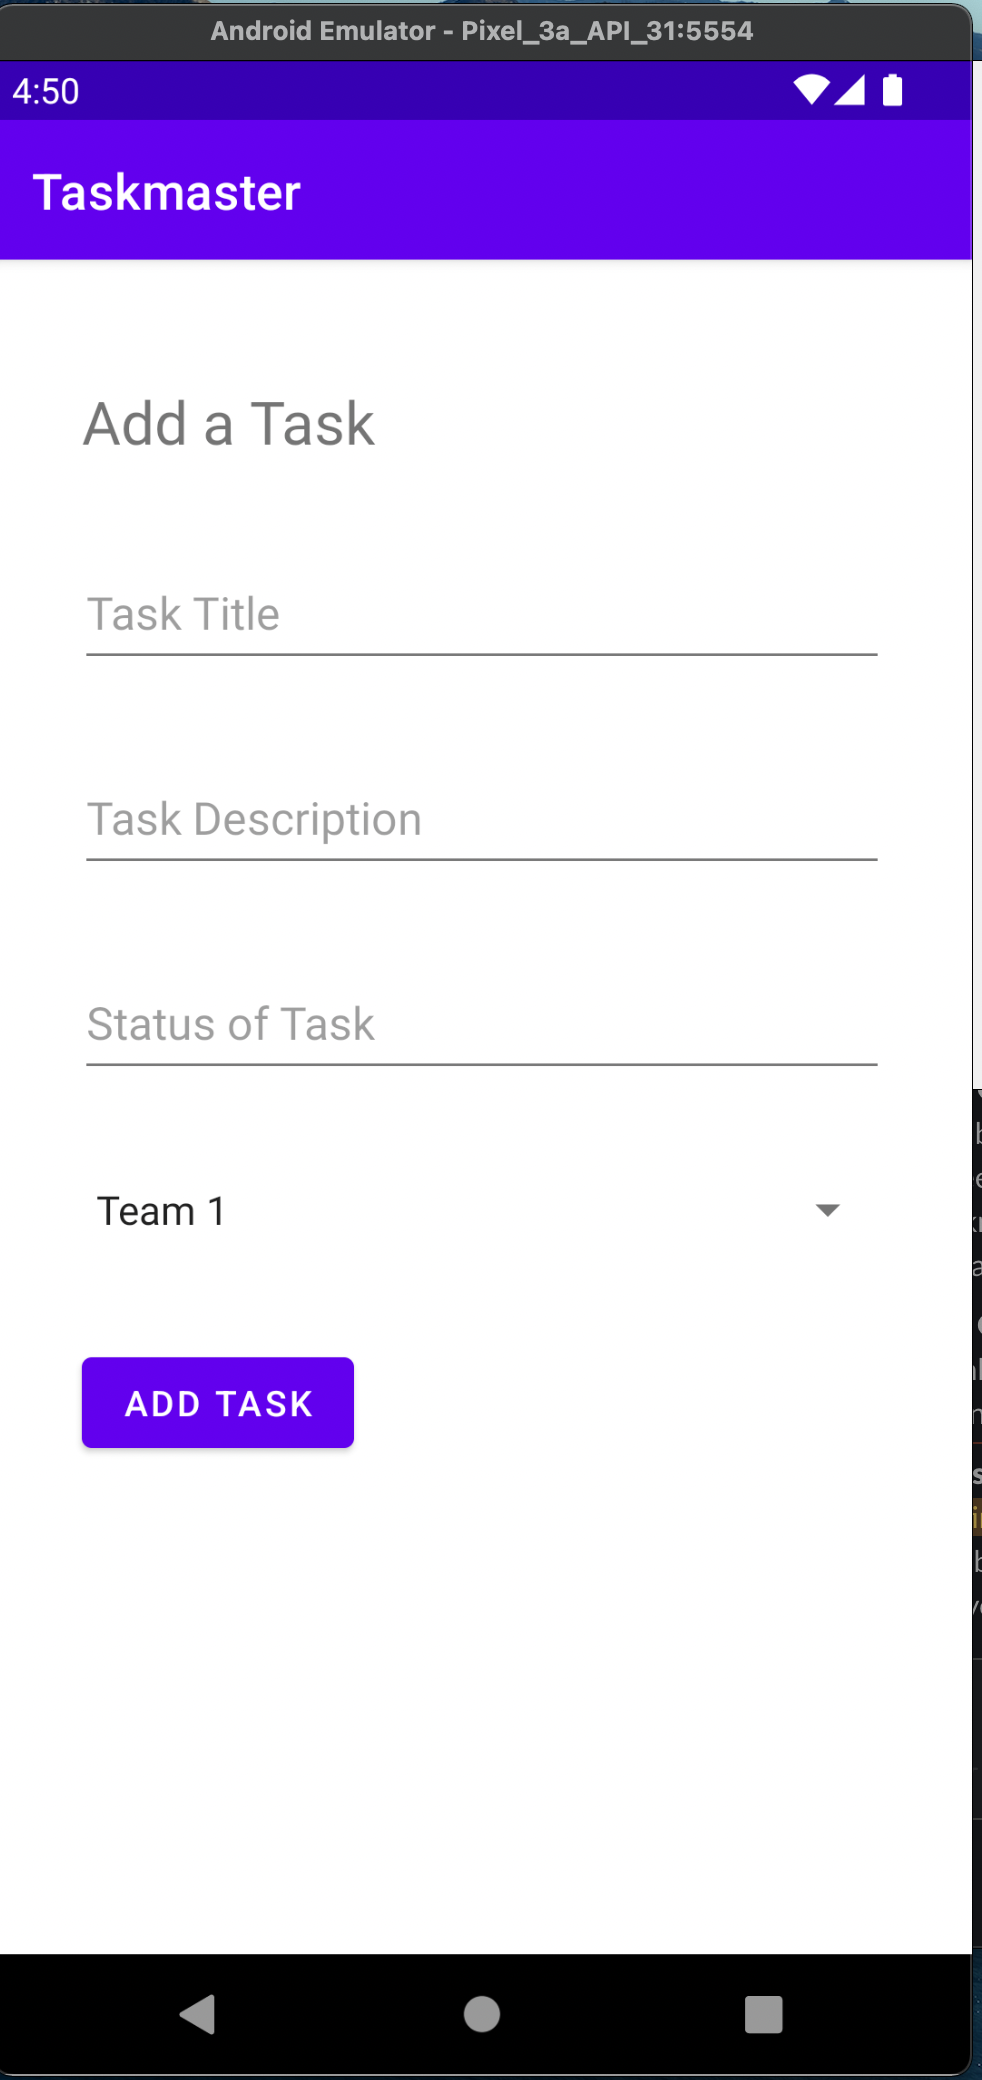
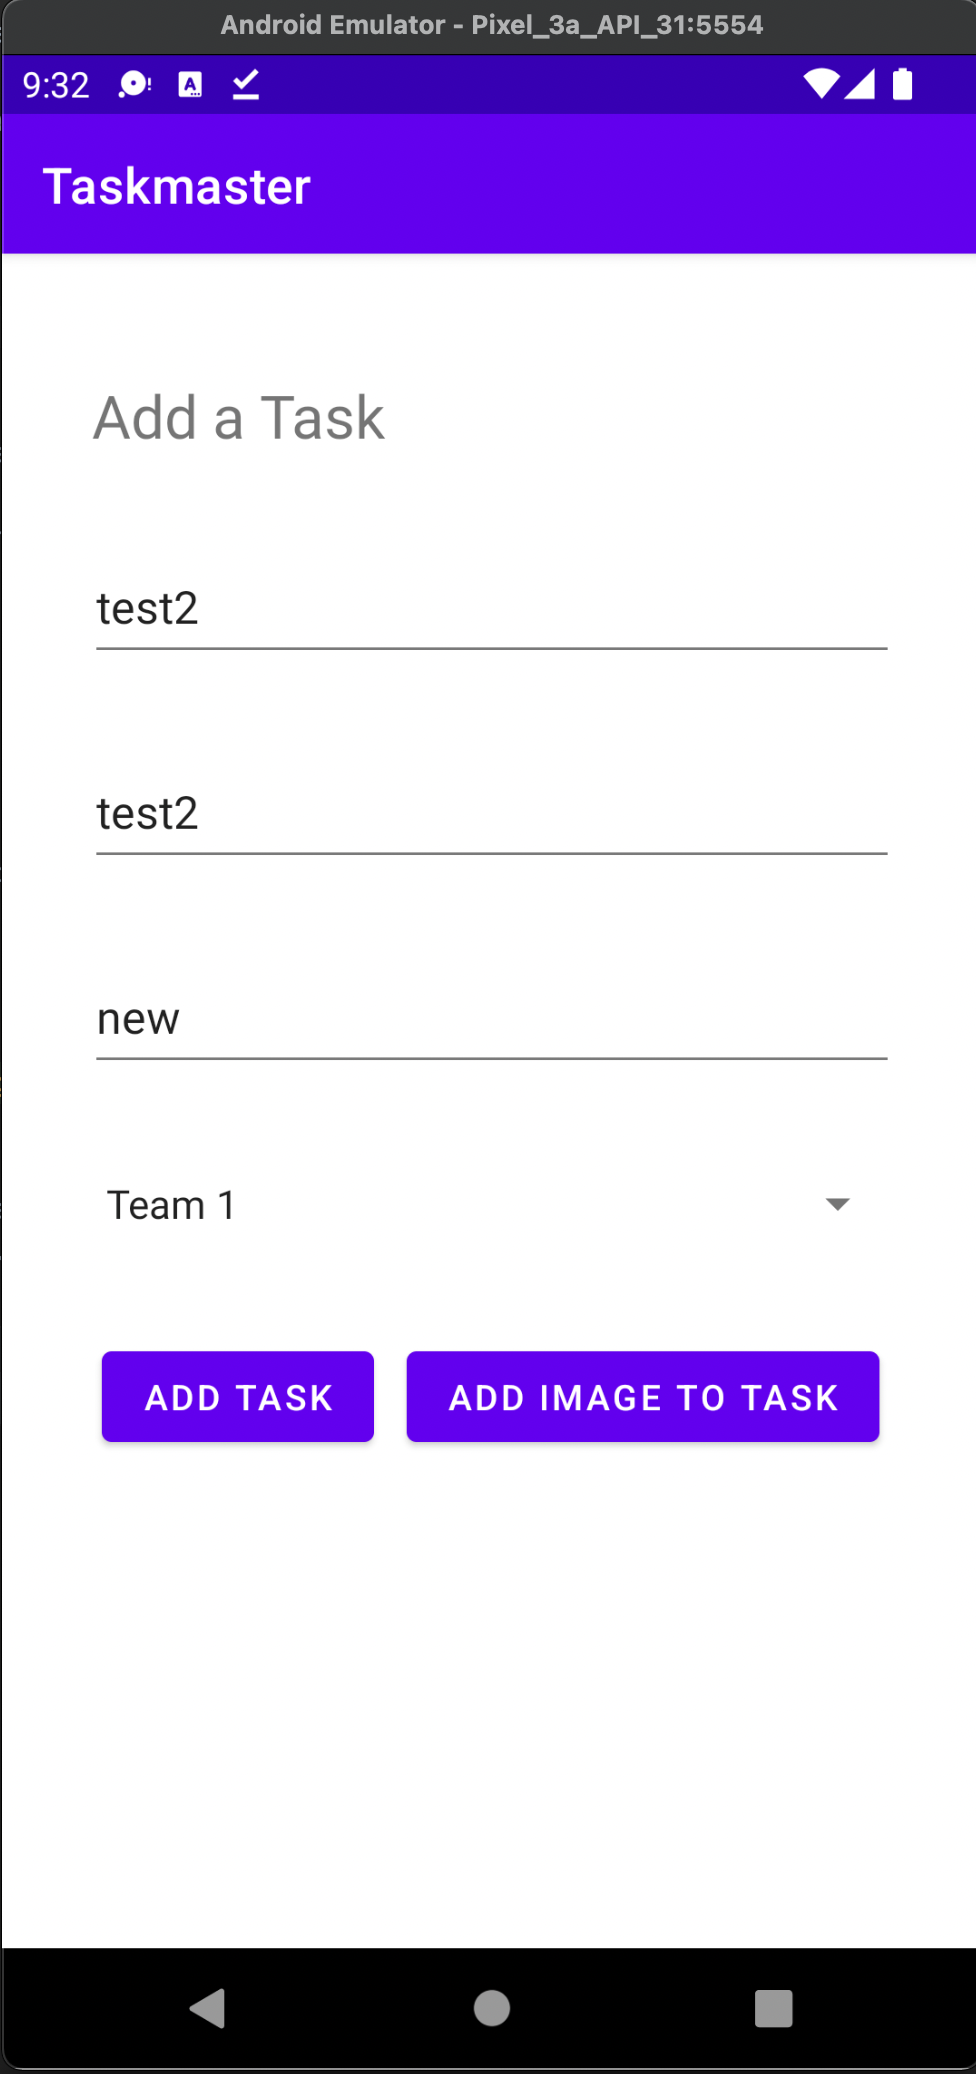
further updates documentation, fixes small bug when adding/rendering new image of task

diff --git a/app/src/main/java/com/hkimbrough22/taskmaster/activities/AddTaskActivity.java b/app/src/main/java/com/hkimbrough22/taskmaster/activities/AddTaskActivity.java
@@ -155,13 +155,14 @@ public class AddTaskActivity extends AppCompatActivity {
         Button addImageButton = findViewById(R.id.addTaskAddImageButton);
         addImageButton.setOnClickListener(view -> {
             selectImageAndSaveToS3();
+
         });
     }
 
     protected void selectImageAndSaveToS3(){
         Intent imagePickingIntent = new Intent(Intent.ACTION_GET_CONTENT);
         imagePickingIntent.setType("*/*");
-        imagePickingIntent.putExtra(Intent.EXTRA_MIME_TYPES, new String[]{"image/jpeg", "image/png"});
+        imagePickingIntent.putExtra(Intent.EXTRA_MIME_TYPES, new String[]{"image/jpeg", "image/png", "image/jpg"});
 //        startActivity(imagePickingIntent);
 //        ActivityResultLauncher<Intent> activityResultLauncher = getImagePickingActivityResultLauncher();
         activityResultLauncher.launch(imagePickingIntent);

diff --git a/README.md b/README.md
@@ -46,7 +46,11 @@ Application is an android application programmed using the Java language. Tested
 ![add task screenshot](./screenshots/addTask.png)
 
 
+![add image](./screenshots/imageSelection.png)
+
+
 - On the “Add a Task” page, allow users to type in details about a new task, specifically a title, body, status, and assign a team.
+- When users click the "Add Image to Task" button, allows users to pick a local image and assign it to a task.
 - When users click the “submit” button, adds the new Task to DynamoDB and shows a Toast affirming addition to DB.
 - Also redirects user to Homepage and updates list there with new Task if the task created was apart of the user's selected Team.
 
@@ -73,7 +77,7 @@ Application is an android application programmed using the Java language. Tested
 ![task detail screenshot](screenshots/taskDetails.png)
 
 
-- Should have a title at the top of the page, a description, and status.
+- Should have a title at the top of the page, a description, status, and image displayed.
 
 ## Daily Changelog
 ### Day 1
